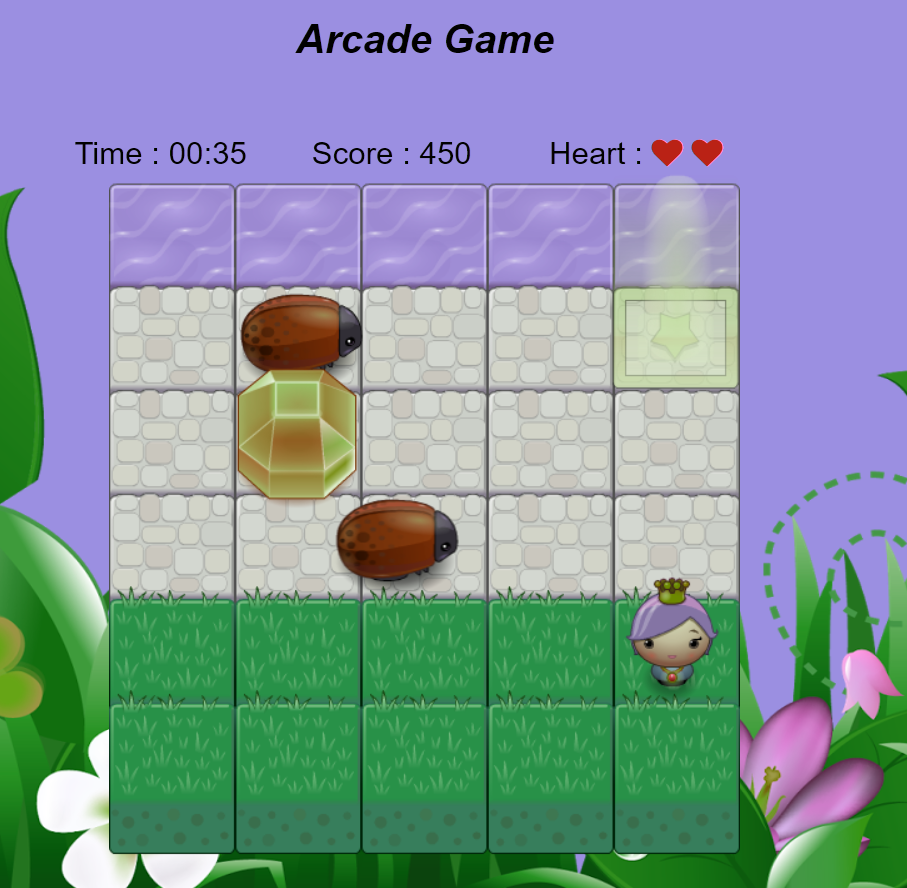
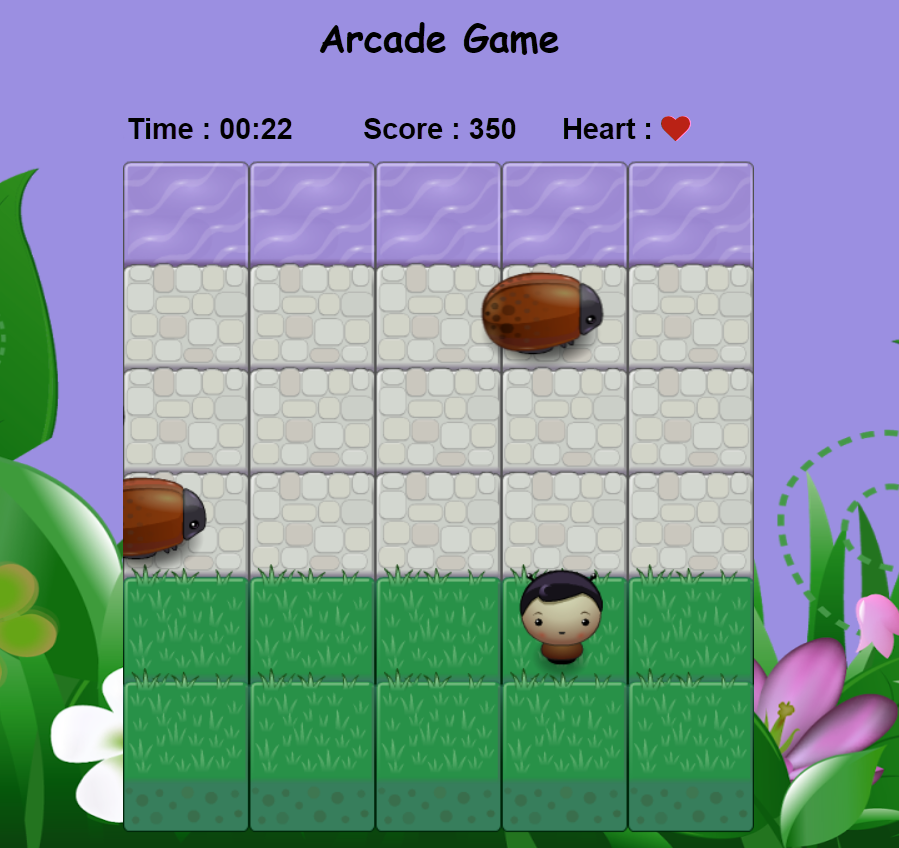
updated

diff --git a/css/style.css b/css/style.css
@@ -3,11 +3,12 @@ html
     background-color:royalblue;
 }
 
-body {
+body 
+{
     text-align: center;
     background-image:url(https://zalarieunique.ru/images/clipart-library-spring-17.png);
     background-repeat: no-repeat;
-    background-size: 100% 43.7%;
+    background-size: 100% 40%;
     overflow-x: hidden;
     overflow-y: hidden;
 }
@@ -40,14 +41,15 @@ body {
 canvas
 {
     position: relative;
-    top:-975px;
+    top:-1000px;
 }
 
 section
 {
     position:relative;
-    top:38px;
-    font-size: 25px;
+    top:10px;
+    font-weight: bold;
+    font-size: 23px;
     font-family:sans-serif;
 }
 
@@ -62,10 +64,10 @@ section
 .win
 {
     background-color:green;
-    width:60%;
-    height:600px;
-    margin-left:20%;
-    margin-top:-10px;
+    width:57%;
+    height:580px;
+    margin-left:23%;
+    margin-top:-52px;
     z-index:1;
 }
 
@@ -79,18 +81,22 @@ button
     height:40px;
 }
 
+.heading
+{
+    font-size:30px; 
+    font-weight: bold;
+    font-family :Apple Chancery, cursive;
+    margin-top: 15px;
+}
+
 .hide
 {
     opacity:0.2;
 }
 
-h1
-{
-    font-family:sans-serif;
-}
-
 h3
 {
+    font-family:  Georgia, serif;
     font-size: 25px;
 }
 
@@ -106,17 +112,17 @@ h4
 
 #time
 {  
-  margin:15px;
+  margin-left:-10px;
 }
 
 #sc
 {
-   margin: 30px;
+   margin: 50px;
 }
 
 .heart
 {
-    margin:25px;
+    margin:-20px;
 }
 
 .fa-heart
@@ -129,7 +135,7 @@ h4
     width:50%;
     height:500px;
     margin-left:25%;
-    margin-top:-350px;
+    margin-top:-400px;
 }
 
 #Over img

diff --git a/js/app.js b/js/app.js
@@ -424,9 +424,9 @@ function finish() //function call when the player has won the game and a popup t
     document.getElementById("timings").innerHTML = minute + "" + second + " minute :)";
     //resizes the background image   
     let bimg = document.querySelector("body");
-    bimg.style.backgroundSize = "100% 39.1%";
+    bimg.style.backgroundSize = "100% 37.1%";
     //removes background and displays the modal
-    let hide = document.querySelector('section');
+    let hide = document.querySelector('.opaque');
     hide.style.visibility = "hidden";
    let hrt = document.querySelector(".third");
     hrt.style.visibility = "hidden";
@@ -445,9 +445,9 @@ function gameover()
     won = 5;
     //sets the size of the background image
     let bimg = document.querySelector("body");
-    bimg.style.backgroundSize = "100% 50.4%";
+    bimg.style.backgroundSize = "100% 47.8%";
     //removes background and displays the modal
-    let hide = document.querySelector('section');
+    let hide = document.querySelector('.opaque');
     hide.style.visibility = "hidden";
     let h1 = document.querySelector('canvas');
     h1.style.visibility = "hidden";

diff --git a/index.html b/index.html
@@ -9,7 +9,7 @@
 </head>
 
 <body>
-    <h1><i>Arcade Game</i></h1>
+    <p class="heading">Arcade Game</p>
     <section class="opaque">
         <div class="inln" id="time">
             Time : <span id="minutes">00:00 </span><span id="seconds"></span>
@@ -18,6 +18,7 @@
         <div class="inln" id="sc">
             Score : <span id="score"></span>
         </div>
+        
         <div class="inln heart">
             Heart :
             <span class="fa fa-heart first"></span>
